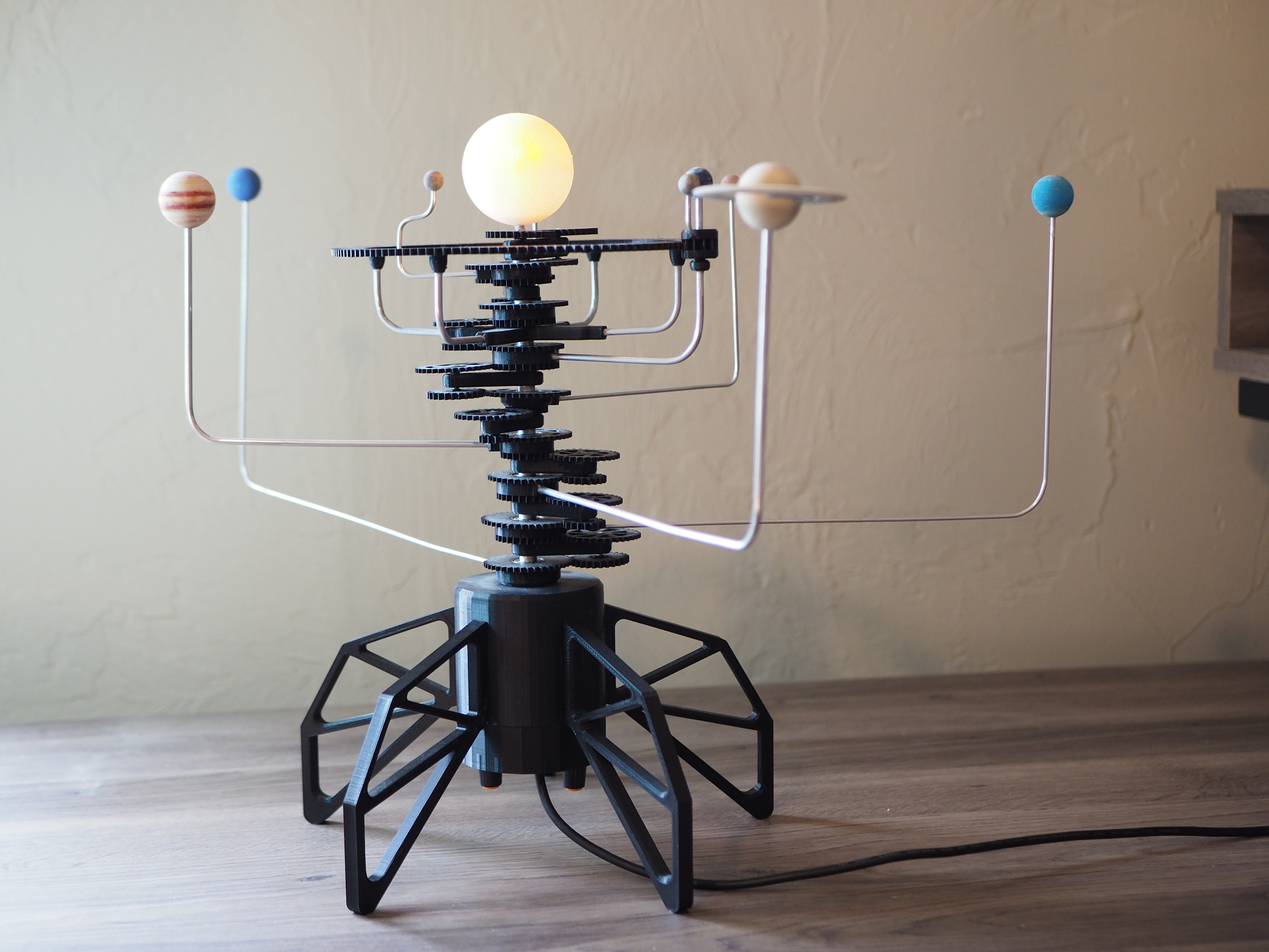
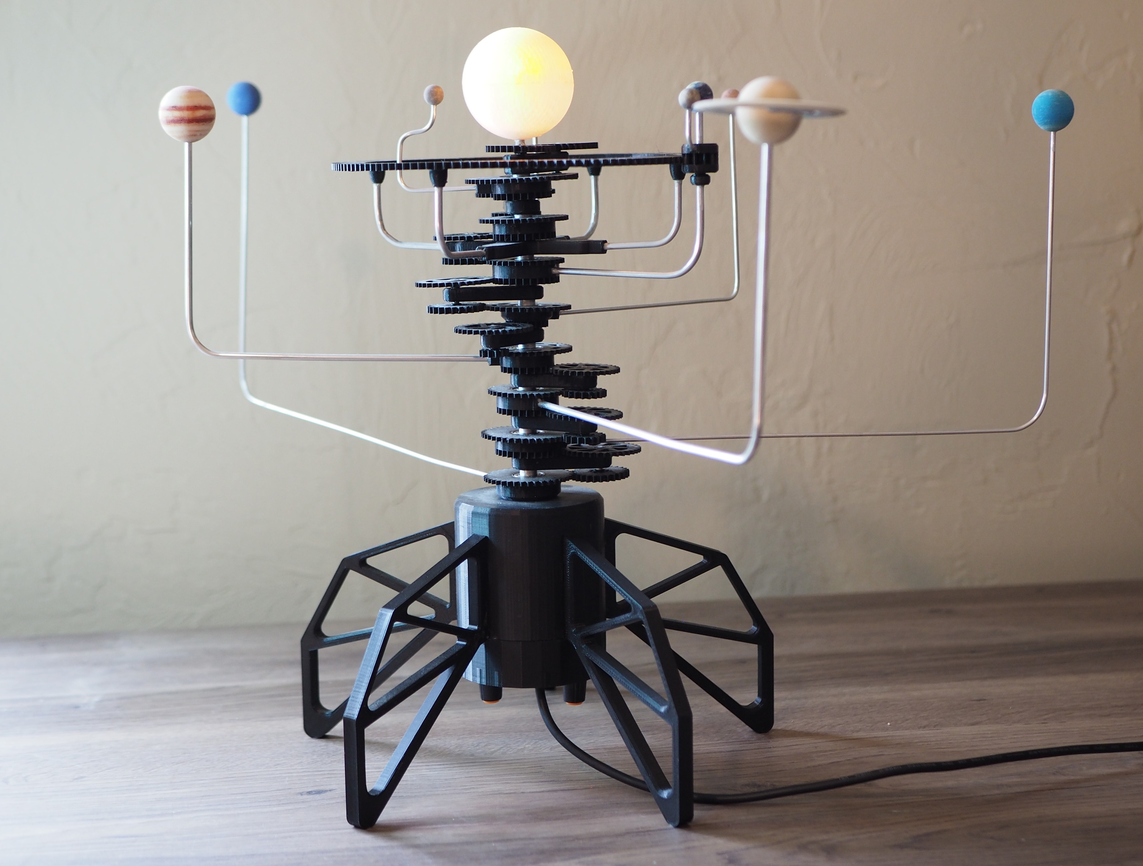
Update

diff --git a/index.html b/index.html
@@ -112,7 +112,7 @@
                 </div>
 
                 <div class="swiper-slide">
-                  <img src="assets/img/Hydrothermal Lab Photo.png" class="img-fluid" alt="">
+                  <img src="assets/img/Short Lab Video.gif" class="img-fluid" alt="">
                 </div>
 
               </div>
@@ -523,7 +523,7 @@
 
           <div class="col-lg-4 col-md-6 portfolio-item filter-electronics filter-laser_cutting filter-3d_printing">
             <div class="portfolio-wrap">
-              <img src="assets/img/portfolio/Switch Box Close Up.JPG" class="img-fluid" alt="">
+              <img src="assets/img/portfolio/Switch Box Solution.gif" class="img-fluid" alt="">
               <div class="portfolio-info">
                 <h4>Binary Switch Box Puzzle</h4>
                 <p>Electronics, Laser Cutting, 3D Printing</p>
@@ -549,7 +549,7 @@
 
           <div class="col-lg-4 col-md-6 portfolio-item filter-electronics filter-programming filter-laser_cutting filter-3d_printing">
             <div class="portfolio-wrap">
-              <img src="assets/img/portfolio/Test Tube Corner Photo.JPG" class="img-fluid" alt="">
+              <img src="assets/img/portfolio/Biochemistry Solution.gif" class="img-fluid" alt="">
               <div class="portfolio-info">
                 <h4>Biochemistry Puzzle</h4>
                 <p>Electronics, Programming, Laser Cutting, 3D Printing</p>
@@ -640,7 +640,7 @@
 
           <div class="col-lg-4 col-md-6 portfolio-item filter-3d_printing">
             <div class="portfolio-wrap">
-              <img src="assets/img/portfolio/Orrery Front.JPG" class="img-fluid" alt="">
+              <img src="assets/img/portfolio/Orrery Demo.gif" class="img-fluid" alt="">
               <div class="portfolio-info">
                 <h4>Orrery</h4>
                 <p>3D Printing</p>
@@ -679,7 +679,7 @@
 
           <div class="col-lg-4 col-md-6 portfolio-item filter-electronics">
             <div class="portfolio-wrap">
-              <img src="assets/img/portfolio/BRAT7066 Board Design.png" class="img-fluid" alt="">
+              <img src="assets/img/portfolio/Multisim Board Design.png" class="img-fluid" alt="">
               <div class="portfolio-info">
                 <h4>15 Segment Display Board</h4>
                 <p>Electronics</p>

diff --git a/brat7066-details.html b/brat7066-details.html
@@ -50,11 +50,11 @@
               <div class="swiper-wrapper align-items-center">
 
                 <div class="swiper-slide">
-                  <img src="assets/img/portfolio/BRAT7066 Board Design.png" class="img-fluid" alt="">
+                  <img src="assets/img/portfolio/Multisim Board Design.png" class="img-fluid" alt="">
                 </div>
 
                 <div class="swiper-slide">
-                  <img src="assets/img/portfolio/Multisim Board Design.png" class="img-fluid" alt="">
+                  <img src="assets/img/portfolio/BRAT7066 Board Design.png" class="img-fluid" alt="">
                 </div>
 
               </div>

diff --git a/assets/js/main.js b/assets/js/main.js
@@ -219,11 +219,11 @@
    */
   new Swiper('.portfolio-details-slider', {
     speed: 400,
-    loop: true,
-    autoplay: {
+    loop: false,
+    /*autoplay: {
       delay: 5000,
       disableOnInteraction: true
-    },
+    },*/
     pagination: {
       el: '.swiper-pagination',
       type: 'bullets',
@@ -235,10 +235,10 @@
    * Testimonials slider
    */
   new Swiper('.testimonials-slider', {
-    speed: 600,
+    speed: 400,
     loop: true,
     autoplay: {
-      delay: 5000,
+      delay: 10000,
       disableOnInteraction: true
     },
     slidesPerView: 'auto',

diff --git a/switchbox-details.html b/switchbox-details.html
@@ -58,10 +58,6 @@
                 </div>
 
                 <div class="swiper-slide">
-                  <img src="assets/img/portfolio/Switch Box Wiring.jpg" class="img-fluid"alt="">
-                </div>
-
-                <div class="swiper-slide">
                   <video preload="auto" muted loop autoplay controls src="assets/img/portfolio/Switch Box Solution.mp4" class="img-fluid" type="video/mp4"></video>             
                 </div>
 

diff --git a/micp-details.html b/micp-details.html
@@ -54,7 +54,7 @@
                 </div>
 
                 <div class="swiper-slide">
-                  <img src="assets/img/portfolio/MICP Workup.JPG" class="img-fluid" alt="">
+                  <img src="assets/img/portfolio/Autopore.jpg" class="img-fluid" alt="">
                 </div>
 
               </div>
